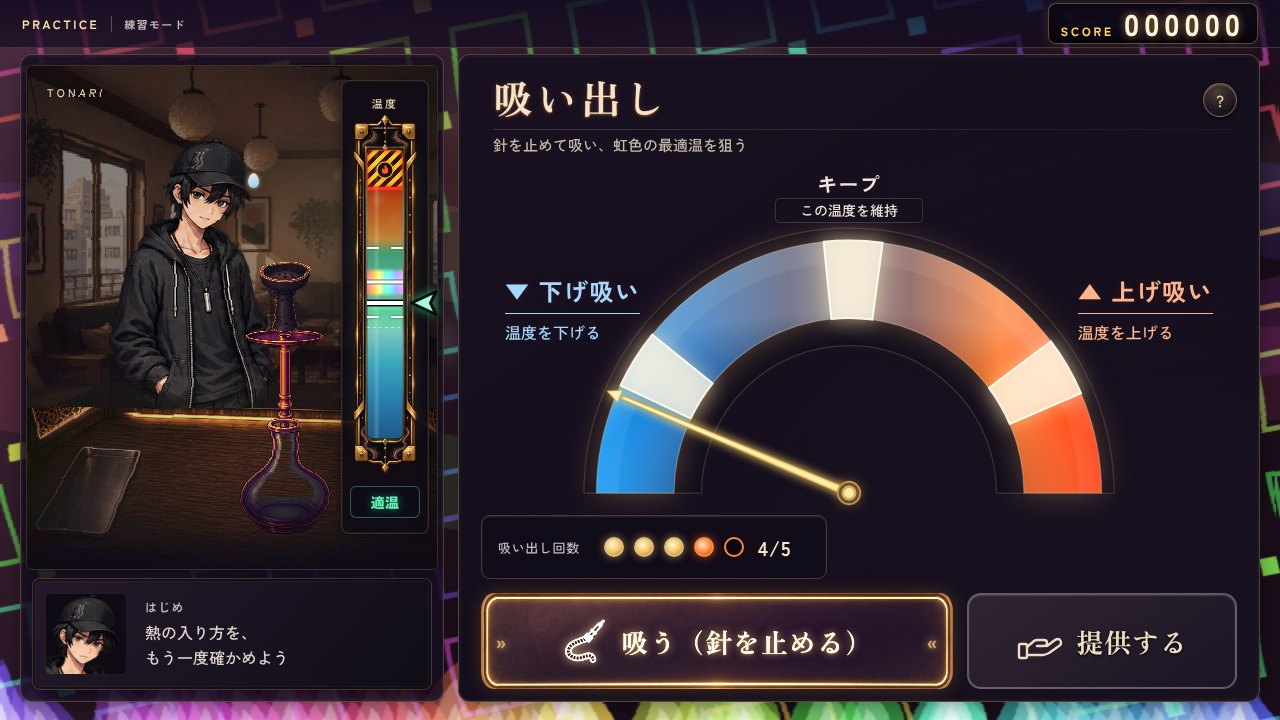
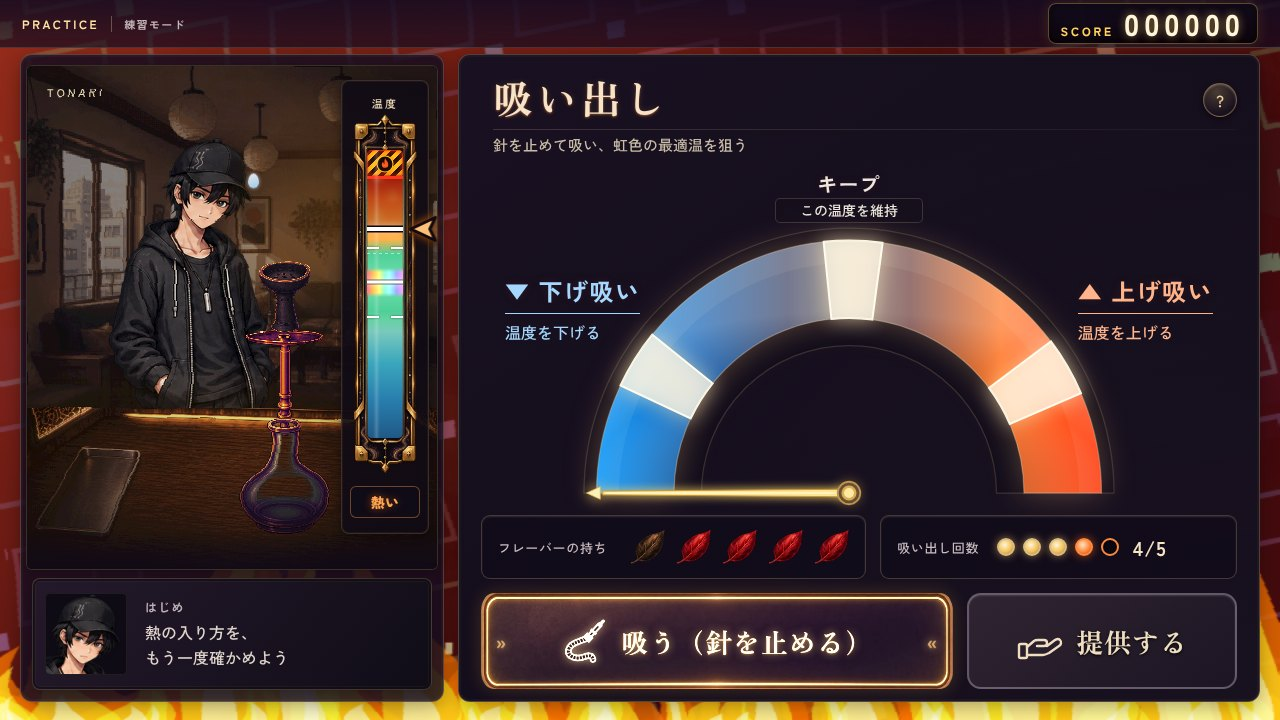
Restore flavor leaves beside the five-pull counter and set the hazard band to 10%
Claude-Session: https://claude.ai/code/session_011TQcD4sr13izWmFDbzAK1w

diff --git a/remake/js/craft/pull.js b/remake/js/craft/pull.js
@@ -2,7 +2,7 @@
 // 左右に振れる針を止めた位置で、上げ吸い／キープ／下げ吸い。中央の細い帯が「ジャスト」。
 // 熱管理（大会のR3・調整）も同じ針のゲーム。「炭を交換しますか？」で個数を選び、交換した炭で温度が戻ってから、
 // 温度が動き続ける中で最低1回吸って整える。3回目の吸い出しからフレーバーが傷む（TH14・TH21・TH22・TH39）。
-// 温度計の一番上で焦げ、熱管理で冷え切ると、その一台はダメになる。吸えるのは5回まで（TH94）。
+// 温度計の一番上で焦げ、熱管理で冷え切り、赤い葉が0枚になると、その一台はダメになる（TH82）。一度に吸えるのは5回まで（TH94）。
 // 吸いすぎ・過熱での吸い出しは、はじめの体力も削って疲れ（針が速く、成功帯が狭い）が付く（TH29）。
 // 人によって狙いが違うので、EXCELLENT・GOOD の判定は出さない。吸うと温度計の横に上下の印だけが出る（TH36）。
 // 左の作業風景に温度計、右に半円ダイヤル。左の下げ吸い=寒色→キープ→右の上げ吸い=暖色。
@@ -12,13 +12,14 @@
 import { el, sleep, clamp, rand } from "../core/util.js";
 import { countdown, shake } from "../core/ui.js";
 import { SE, startBubbling } from "../core/audio.js";
-import { stepPanel, refreshBench, tickerSay, reactAudience, setBenchTemperature, setBenchDraw, failBench, strainBench, scoreStep } from "./session.js";
+import { stepPanel, refreshBench, tickerSay, reactAudience, setBenchTemperature, setBenchDraw, failBench, setBenchLeaf, dockBenchLeaf, strainBench, scoreStep } from "./session.js";
 import { gradeOf, autoSkill, skill, resultCard, keys } from "./common.js";
 import { burnCoals, HEAT_GRADES } from "./heat.js";
 
 import { craftConditions, heatDelta, pullResult, isOptimalTemperature, temperatureAfterSteam, pullFocusFromSteam, isBurnt, isColdOut, DANGER_TEMP, COLD_OUT, IDEAL } from "./conditions.js";
 import { buildThermometer } from "./thermometer.js";
 import { DRAW_MS, animateDraw } from "./pull-draw.js";
+import { ensureFlavorLife, burnFlavorLeaf } from "./flavor-life.js";
 
 export { IDEAL } from "./conditions.js";
 const HOSE_PATH = "M25.5 21.5C18 25 9 26 7.5 33s8 9.5 15 7 9-1 9.5 2.5";
@@ -56,12 +57,14 @@ const dialPoint = (p, r) => {
 const dialSector = (p0, p1, r0 = DIAL.r0, r1 = DIAL.r1) =>
   `M${dialPoint(p0, r1)}A${r1} ${r1} 0 0 1 ${dialPoint(p1, r1)}L${dialPoint(p1, r0)}A${r0} ${r0} 0 0 0 ${dialPoint(p0, r0)}Z`;
 let dials = 0;
-/** TH94: 吸い出し・熱管理とも一度に吸えるのは5回まで。回数は情報欄の5つの点で見せる（赤い葉の持ちは廃止）。 */
+export { LEAF_MAX } from "./flavor-life.js";
+/** TH94・TH95: 吸い出し・熱管理とも一度に吸えるのは5回まで。左の赤い葉の持ちの右に、回数を5つの点で並べる。 */
 export const MAX_PULLS = 5;
 
 const FAIL_TEXT = {
   burnt: { title: "シーシャが焦げてしまった", line: "温度計の一番上まで熱が上がり、葉が焦げた", ticker: "パッキー「ば、爆発ーッ！？ シーシャが焦げてしまったーッ！」" },
   cold: { title: "シーシャが冷え切ってしまった", line: "炭の熱が尽きて、煙が立たなくなった", ticker: "パッキー「あ、あれ〜？ 煙が……止まってしまったーッ！」" },
+  leaf: { title: "フレーバーがダメになってしまった", line: "吸いすぎて、葉の香りが抜け切った", ticker: "パッキー「吸いすぎだーッ！ フレーバーが限界を迎えたーッ！」" },
 };
 
 /** 炭・熱・蒸らし・穴・詰めから、吸い出し開始時の温度を決める */
@@ -96,6 +99,8 @@ async function pullGame(cs, mode) {
   let coreTemp = mode.start(cs);
   let T = coreTemp;
   const conditions = craftConditions(cs);
+  ensureFlavorLife(cs);
+  setBenchLeaf(cs);
   let pulls = 0, justs = 0, failed = null, coals = null;
   // 熱管理だけ: 炭が燃え進んで熱が落ちる速さと、洞察で小さくなる揺らぎ
   const clarity = mode.drift ? skill.clarity(cs) : 1;
@@ -160,14 +165,17 @@ async function pullGame(cs, mode) {
   const pips = Array.from({ length: MAX_PULLS }, (_, i) => el(`i.pull-pip${i >= mode.safe ? ".over" : ""}`, { "aria-hidden": "true" }));
   const pullCount = el("b.pull-count-num");
   const counter = el("span.pull-count", { role: "img", dataset: { test: "pull-count" } }, [el("span.pull-pips", pips), pullCount]);
+  const lifeLeaves = el("span.pull-life-leaves");
   const summary = el("div.pull-summary", [
-    el("div.pull-life", [el("span.pull-life-label", { text: mode.drift ? "吸った回数" : "吸い出し回数" }), counter, tags, drawStatus]),
+    el("div.pull-life", [el("span.pull-life-label", { text: "フレーバーの持ち" }), lifeLeaves, tags, drawStatus]),
+    el("div.pull-life.pull-count-box", [el("span.pull-life-label", { text: mode.drift ? "吸った回数" : "吸い出し回数" }), counter]),
   ]);
   const play = el("div.pull-play", [dialRow, summary, el("div.pull-btns", [pullBtn, serveBtn])]);
   play.setAttribute("aria-label", "左の下げ吸いで温度を下げ、中央でキープ、右の上げ吸いで温度を上げる");
   const main = el("div.pull-main", [play]);
   panel.append(el(`div.pull${mode.drift ? ".pull-care" : ""}`, [thermometer.root, main]));
   thermometer.root.append(readout);
+  dockBenchLeaf(cs, lifeLeaves);
 
   const render = () => {
     thermometer.update(T);
@@ -233,8 +241,13 @@ async function pullGame(cs, mode) {
     const delta = z.id === "keep" ? (at - .5) * .18 : (isJust ? z.justDelta : z.delta) + .015;
     return { z, isJust, delta };
   };
-  // 吸いすぎは文字を出さず、ダメージの音と揺れで伝える（TH27・TH28）。採点の減点は pullResult。
-  const overdraw = () => { SE.hit(); shake(undefined, 380); };
+  // 吸いすぎでフレーバーが傷む。文字は出さず、ダメージの音と揺れ、葉の傷みで伝える（TH27・TH28）。
+  const damageLeaf = () => {
+    burnFlavorLeaf(cs.leaf);
+    setBenchLeaf(cs, true);
+    SE.hit(); shake(undefined, 380);
+    if (cs.leaf.hp <= 0) fail("leaf");
+  };
   // 吸いすぎ・過熱の吸い出しで、はじめが疲れる。針と成功帯にすぐ反映する（TH29）。
   const strain = () => {
     if (!strainBench(cs)) return;
@@ -278,7 +291,7 @@ async function pullGame(cs, mode) {
       reactAudience(cs, overdone || Math.abs(T - CENTER) > Math.abs(before - CENTER) ? "bad" : "good");
       thermometer.pop(z.id === "keep" ? z.mark : isJust ? z.mark.repeat(2) : z.mark, z.id);
       if (overdone || T >= HARSH_TEMP) strain();
-      if (overdone) overdraw();
+      if (overdone) { damageLeaf(); if (failed) return; }
     } finally {
       stopBubbles();
       setBenchDraw(cs, null);

diff --git a/remake/js/craft/session.js b/remake/js/craft/session.js
@@ -23,6 +23,8 @@ import { buildThermalAtmosphere } from "./thermal.js";
 import { buildPanelSmoke } from "./smoke-art.js";
 import { temperatureAfterSteam } from "./conditions.js";
 import { screenBlast } from "./blast.js";
+import { artImg } from "./art.js";
+import { LEAF_MAX, flavorLeafStages } from "./flavor-life.js";
 
 /**
  * テスト用フック。auto を "good" / "bad" にすると、各ミニゲームが操作なしで
@@ -91,6 +93,8 @@ export function openBench(cs, { steps = [] } = {}) {
   const guide = buildGuide();
   const panel = el("div.bench-panel");
   // TH62: 顔のバッジは廃止。疲れは作業中のはじめの表情と汗で見せる。
+  const leaf = buildLeafIcon();
+  worker.footer.append(leaf.root);
   // アーケードのような総合スコア（TH42）。工程の結果が出るたびに数字が回って増える。
   const score = buildScoreBoard(cs);
   const root = el("div.bench", { dataset: { mode: cs.mode } }, [
@@ -106,7 +110,7 @@ export function openBench(cs, { steps = [] } = {}) {
   const thermal = buildThermalAtmosphere(root, worker);
   bg();
   showScreen("bench", root);
-  bench = { cs, root, worker, audience, panel, title, hint, guide, progress, progressCount, thermal, score };
+  bench = { cs, root, worker, audience, panel, title, hint, guide, progress, progressCount, thermal, leaf, score };
   renderFatigue();
   return bench;
 }
@@ -130,6 +134,8 @@ export function stepPanel(id, titleText, hintText = "", { brief = STEP_BRIEFS[id
     } else s.removeAttribute("aria-current");
   });
   b.audience?.setStep(hintText, id);
+  // 吸い出しの情報欄へ移した葉を、工程を消す前に作業風景へ戻す。
+  b.worker.footer.append(b.leaf.root);
   b.panel.replaceChildren();
   b.panel.dataset.step = id;
   b.root.dataset.step = id;
@@ -139,6 +145,8 @@ export function stepPanel(id, titleText, hintText = "", { brief = STEP_BRIEFS[id
   renderFatigue();
   b.worker.caption.textContent = WORKER_STEPS[id] || titleText;
   b.thermal.setStep(id);
+  b.leaf.root.hidden = !["pull", "care", "trial"].includes(id);
+  b.leaf.render(b.cs.leaf);
   // 蒸らしのやり直しでも前回の温度を残さず、炭を置いた直後の温度から始める。
   if (id === "steam") b.thermal.update(temperatureAfterSteam(b.cs, 0));
   if (["pull", "care", "trial"].includes(id)) b.thermal.update(b.cs.care?.temp ?? b.cs.pull?.temp ?? b.cs.steam?.temp ?? 0);
@@ -156,6 +164,37 @@ export function setBenchDraw(cs, kind, duration = 0) {
 export function pauseBenchTemperature(cs, paused) {
   if (bench?.cs === cs) bench.thermal.pause(paused);
 }
+/**
+ * 赤い葉5枚のうち使用中の1枚だけが茶→黒→消える。次の赤い葉は変色しない（TH77〜82）。
+ */
+function buildLeafIcon() {
+  const leaves = Array.from({ length: LEAF_MAX }, (_, i) => el("span.flavor-leaf", { "aria-hidden": "true", dataset: { slot: i, stage: "red" } }, [
+    artImg("ui_mockup_flavor_leaf.png", 34, "leaf-skin", { h: 34 }),
+  ]));
+  const root = el("span.leaf-icon", { hidden: true, role: "img", dataset: { test: "leaf-icon", hp: String(LEAF_MAX) } }, leaves);
+  return { root, render(leaf, { hit = false } = {}) {
+    const hp = leaf?.hp ?? LEAF_MAX, burn = leaf?.burn ?? 0;
+    root.dataset.hp = String(hp);
+    root.dataset.burn = String(burn);
+    flavorLeafStages(leaf).forEach((stage, i) => { leaves[i].dataset.stage = stage; });
+    const description = `フレーバー：赤い葉が残り${hp}/${LEAF_MAX}枚${burn ? `、使用中の葉は${burn === 1 ? "茶色" : "黒い焦げ"}` : ""}`;
+    root.setAttribute("aria-label", description);
+    root.title = description;
+    if (hit) { root.classList.remove("hit"); void root.offsetWidth; root.classList.add("hit"); }
+  } };
+}
+
+/** フレーバーが傷んだら葉を更新する。音と揺れは呼び出し側で鳴らす。 */
+export function setBenchLeaf(cs, hit = false) {
+  if (bench?.cs === cs) bench.leaf.render(cs.leaf, { hit });
+}
+/** 吸い出し・熱管理では、同じ葉の状態をモックアップの情報欄へ置く。 */
+export function dockBenchLeaf(cs, host) {
+  if (bench?.cs !== cs) return;
+  const root = bench.leaf.root;
+  host.prepend(root);
+}
+
 /**
  * はじめの疲れ（TH29・TH43）。札や文字は出さず、作業中のはじめの表情と汗で見せる。
  * 0=元気（真剣な顔）、1=少し疲れ（汗がにじむ）、2=ばてている（沈んだ顔・汗と荒い息）。体調の黄・赤と、吸いすぎ・熱すぎの疲れの重い方。
@@ -240,7 +279,7 @@ function bowlOrigin() {
 
 /**
  * その一台がダメになった演出（TH06・TH17・TH19・TH20）。burnt=画面全体の大爆発と焦げた背景、
- * cold=煙が消えて冷え切った色。終わると結果へ進む。
+ * cold=煙が消えて冷え切った色、leaf=フレーバーが抜けてくすんだ色。終わると結果へ進む。
  */
 export async function failBench(cs, kind) {
   if (bench?.cs !== cs || !bench.root.isConnected) return;

diff --git a/remake/css/craft.css b/remake/css/craft.css
@@ -822,6 +822,16 @@
 .thermo.danger .thermo-pointer { background: linear-gradient(90deg, #fff, #ff5a3a); filter: drop-shadow(0 0 7px #ff3a00) drop-shadow(0 0 1px #000); }
 .thermo.optimal .thermo-pointer { background: linear-gradient(90deg, #fff, #ffe066); }
 @keyframes pointer-pulse { from { transform: translateX(0); } to { transform: translateX(4px); } }
+/* TH77〜82: 5枚のうち1枚ずつ赤→茶→黒→消える。残りの赤い葉は変色させない。 */
+.leaf-icon { display: inline-flex; align-items: center; gap: 12px; flex: none; }
+.leaf-icon[hidden] { display: none; }
+.flavor-leaf { display: block; width: 34px; height: 34px; flex: none; transition: opacity .45s, transform .45s var(--ease-out); }
+.leaf-skin { transition: filter .5s var(--ease-out); image-rendering: auto; }
+.flavor-leaf[data-stage="brown"] > .leaf-skin { filter: grayscale(1) sepia(1) saturate(2.5) hue-rotate(-20deg) brightness(.85); }
+.flavor-leaf:is([data-stage="black"], [data-stage="gone"]) > .leaf-skin { filter: grayscale(1) brightness(.22); }
+.flavor-leaf[data-stage="gone"] { opacity: 0; transform: scale(.55); }
+.leaf-icon.hit .flavor-leaf:is([data-stage="brown"], [data-stage="black"]) { animation: leaf-shiver .5s ease-out; }
+@keyframes leaf-shiver { 0%, 100% { transform: none; } 20% { transform: translateX(-4px) rotate(-12deg); } 45% { transform: translateX(3px) rotate(9deg); } 70% { transform: translateX(-2px) rotate(-4deg); } }
 /* TH94: 吸った回数の5つの点。無傷の回数を超える点は橙の枠、吸った点は灯る。 */
 .pull-count { display: inline-flex; align-items: center; gap: 14px; flex: none; }
 .pull-pips { display: flex; gap: 10px; }
@@ -831,7 +841,7 @@
 .pull-pip.over.on { background: radial-gradient(circle at 40% 35%, #ffe2c2, #ff8a3d 55%, #c2410c); box-shadow: 0 0 10px #ff6a1aaa; }
 .pull-count-num { min-width: 2.6em; font-family: "Craft Mincho", var(--font); font-size: 20px; letter-spacing: .06em; color: #f4e4c4; font-variant-numeric: tabular-nums; }
 .pull-count[data-pulls="5"] .pull-count-num { color: #ff9a52; }
-@media (prefers-reduced-motion: reduce) { .thermo-pointer { animation: none; } .pull-pip { transition: none; } }
+@media (prefers-reduced-motion: reduce) { .thermo-pointer, .leaf-icon.hit .flavor-leaf { animation: none; } .flavor-leaf, .leaf-skin, .pull-pip { transition: none; } }
 
 /* TH47〜51: モックアップの広い半円、中心から弧に届く針。左=下げ、右=上げ。 */
 .pull-dial { position: relative; width: min(100%, 590px); margin: 0 auto; aspect-ratio: 480 / 270; }
@@ -1020,6 +1030,7 @@
 .pull-summary { display: block; justify-self: start; width: max-content; max-width: 100%; padding: 0; border: 0; background: none; }
 .pull-life { position: relative; min-width: 0; min-height: 0; height: 100%; display: flex; align-items: center; gap: 24px; padding: 8px 16px; border: 1px solid #a18a665c; border-radius: 9px; background: #100b18bb; box-shadow: inset 0 1px 2px #fff2; }
 .pull-life-label { font-size: 13px; color: #c8bcc0; white-space: nowrap; letter-spacing: .05em; }
+.pull-life-leaves { display: flex; align-items: center; flex: none; }
 .pull-tags:empty { display: none; }
 .pull-serve-icon svg { display: block; width: 100%; height: 100%; }
 /* 状態の読み上げだけ残す。注意書きや別ウインドウは表示しない（TH71）。 */
@@ -1114,3 +1125,9 @@
   .panel-smoke-wisp::before { animation: none; opacity: .5; }
   .panel-smoke-wisp::after { display: none; }
 }
+/* TH95: 情報欄は左にフレーバーの持ち、右に吸い出し回数を並べる。 */
+.pull-summary { display: flex; gap: 14px; width: auto; justify-self: stretch; }
+.pull-summary > .pull-life { flex: none; }
+.pull-summary > .pull-count-box { flex: 1; min-width: 0; gap: 18px; }
+.pull-count-box .pull-pips { gap: 8px; }
+.pull-count-box .pull-pip { width: 18px; height: 18px; }

diff --git a/remake/js/craft/thermal.js b/remake/js/craft/thermal.js
@@ -20,9 +20,10 @@ const BANDS = [
 const RUINED = {
   burnt: { id: "burnt", label: "シーシャが焦げてしまった", ink: "#ff7a2a", glow: ["#ff3c00", .3], haze: 0, smoke: ["#1c1210", .92] },
   cold: { id: "cold-out", label: "シーシャが冷え切ってしまった", ink: "#cfe6ff", glow: ["#9cc8ff", .16], haze: 0, smoke: ["#ffffff", 0] },
+  leaf: { id: "leaf-out", label: "フレーバーがダメになってしまった", ink: "#c9b48a", glow: ["#8a7350", .14], haze: 0, smoke: ["#9a8f80", .3] },
 };
 const BURNT = RUINED.burnt;
-const RUINED_BG = { burnt: ["#3a1d10", "#0b0503"], cold: ["#5d7487", "#18232e"] };
+const RUINED_BG = { burnt: ["#3a1d10", "#0b0503"], cold: ["#5d7487", "#18232e"], leaf: ["#4a3f31", "#161109"] };
 export function thermalBand(temp) {
   const t = clamp(Number.isFinite(temp) ? temp : 0, 0, 1);
   return BANDS.find(b => t < b.until || (b.id === "ready" && t === IDEAL[1]));
@@ -379,7 +380,7 @@ export function buildThermalAtmosphere(host, worker) {
       paused = value; host.dataset.thermalPaused = String(value); last = performance.now();
       value ? hazeSvg?.pauseAnimations?.() : hazeSvg?.unpauseAnimations?.();
     },
-    /** その一台がダメになった背景へ切り替える。焦げたら爆発のあと煙と残り火、冷え切りはくすんだ色。工程が変わるまで続く。 */
+    /** その一台がダメになった背景へ切り替える。焦げたら爆発のあと煙と残り火、冷え切り・フレーバー切れはくすんだ色。工程が変わるまで続く。 */
     fail(kind) {
       if (!active || !RUINED[kind]) return;
       paused = false; ruined = kind;

diff --git a/remake/js/craft/conditions.js b/remake/js/craft/conditions.js
@@ -11,8 +11,8 @@ export const isOptimalTemperature = (temp) => temp >= OPTIMAL[0] && temp <= OPTI
 /** 温度計の一番上に届くと爆発して焦げる（2026-10-09 オーナー指定 TH06）。蒸らしは0.88で頭打ちのため届かない。 */
 export const BURST_TEMP = 1;
 export const isBurnt = (temp) => temp >= BURST_TEMP - 1e-6;
-/** ここから上は「焦げる寸前」。温度計に危険帯として描き、背景も灼熱になる。TH92で0.94→0.86へ広げた（爆発は1のまま）。 */
-export const DANGER_TEMP = 0.86;
+/** ここから上は「焦げる寸前」。温度計に危険帯として描き、背景も灼熱になる。TH92・TH96で0.94→0.90へ広げた（温度計の約10%。爆発は1のまま、蒸らしの頭打ち0.88より上）。 */
+export const DANGER_TEMP = 0.90;
 /** 提供後（熱管理）にここまで冷えると、シーシャがダメになる（TH19）。 */
 export const COLD_OUT = 0.06;
 export const isColdOut = (temp) => temp <= COLD_OUT + 1e-6;

diff --git a/remake/js/craft/flavor-life.js b/remake/js/craft/flavor-life.js
@@ -1,0 +1,27 @@
+// TH77〜82: 赤い葉5枚。使用中の1枚だけが赤→茶→黒→消えると進む。
+// hp は次に使える赤い葉の残数。最後の赤が茶色になったら、その一台は失敗。
+export const LEAF_MAX = 5;
+
+export function ensureFlavorLife(cs) {
+  cs.leaf ??= { hp: LEAF_MAX, max: LEAF_MAX, burn: 0 };
+  cs.leaf.max = LEAF_MAX;
+  cs.leaf.burn ??= 0;
+  return cs.leaf;
+}
+
+export function burnFlavorLeaf(leaf) {
+  if (leaf.hp <= 0) return;
+  if (!leaf.burn) {
+    leaf.hp--;
+    leaf.burn = 1;
+  } else {
+    leaf.burn = (leaf.burn + 1) % 3;
+  }
+}
+
+export function flavorLeafStages(leaf) {
+  const hp = leaf?.hp ?? LEAF_MAX, burn = leaf?.burn ?? 0;
+  const gone = LEAF_MAX - hp - (burn ? 1 : 0);
+  return Array.from({ length: LEAF_MAX }, (_, i) =>
+    i < gone ? "gone" : i === gone && burn ? (burn === 1 ? "brown" : "black") : "red");
+}

diff --git a/remake/README.md b/remake/README.md
@@ -25,9 +25,9 @@
 - 温度計は適温（ミント）の中央に幅37.5%の虹色の最適温（温度0.51〜0.57）を表示。虹の端は周囲へなじませ、中央には白線を残す。見た目と最適温の判定は同じ範囲を使用。弾幕は被弾数、吸い出しは提供時の最適温への近さで評価する。吸い出しはキープ中央で維持、少し左で微減、右で微増。針のジャスト自体で点数は増やさない。最低2回・3回までは無傷、4回目以降の吸いすぎは葉が痩せる
 - 制作画面は提示モックアップに合わせ、左に作業風景・独立した温度計のウインドウ・顔を大きく収めたセリフ欄、右に真円の半円ゲージ・光る葉の持ち・高さ96pxの下段ボタンを配置。顔の体調アイコンは廃止し、疲れは表情と汗で示す。吸うボタンと葉には透過の生成素材、吸い出し・熱管理の見出しとボタンにはZen Old Minchoのサブセット（SIL OFL）を使用。針は最終指示TH61で中央のワイパー式。説明に吸引の長さ・強さは書かないが、実際は左の下げ吸い3.2秒、右の上げ吸い1.4秒、キープ1.9秒。一口の間は両ボタンを無効にし、左の水泡と合成のぼこぼこ音に合わせて温度をなめらかに動かす。吸い終わってから針を再開し、提供を選べる。今後の吸引動画は `.bench-worker[data-draw]` へ接続する。背景は既存アニメーションを使用（TH47〜66）
 
-2026-10-10 TH94: 下記の赤い葉の持ちは廃止し、情報欄を5つの点の吸い出し回数（最大5回）へ戻した。TH92で焦げる寸前の帯を0.86以上へ広げ、TH93で右ウインドウの煙を過熱以上だけにした。
+2026-10-10 TH94〜96: 情報欄は左に赤い葉の持ち、右に5つの点の吸い出し回数を並べ、吸えるのは最大5回。焦げる寸前の帯は0.90以上（温度計の約10%）。TH93で右ウインドウの煙を過熱以上だけにした。
 
-2026-10-10 TH67〜82（旧）: 葉は写真の色だけを参考にした自然な赤い葉5枚で開始。無傷の回数を超えると1枚ずつ赤→茶色→黒→消えると進み、次の赤を使う。予備の赤は劣化させず、最後の赤が茶色になって赤が0枚になると失敗。残数と途中の段階を熱管理へ引き継ぐ。旧5回上限を撤去し、持ち欄は5枚に合う幅へ縮め、右の回数の点と「吸いすぎると〜」の注意書きを外した。最低・無傷の回数と採点減点・体力消費は従来どおり。「吸う」はホース、「提供する」は差し出す手。下の外側余白18px／ボタン下12px。温度計は64×360px、背後の枠に左右12px・下16pxの余裕を取り、セリフ欄も外枠から内側へ離した。顔は採用済みの顔アイコンと同じ頭部基準で原画の表情差分を切り取り、暗い紫の面・細い金縁・控えめな発光に整えた。
+2026-10-10 TH67〜82: 葉は写真の色だけを参考にした自然な赤い葉5枚で開始。無傷の回数を超えると1枚ずつ赤→茶色→黒→消えると進み、次の赤を使う。予備の赤は劣化させず、最後の赤が茶色になって赤が0枚になると失敗。残数と途中の段階を熱管理へ引き継ぐ。旧5回上限を撤去し、持ち欄は5枚に合う幅へ縮め、右の回数の点と「吸いすぎると〜」の注意書きを外した。最低・無傷の回数と採点減点・体力消費は従来どおり。「吸う」はホース、「提供する」は差し出す手。下の外側余白18px／ボタン下12px。温度計は64×360px、背後の枠に左右12px・下16pxの余裕を取り、セリフ欄も外枠から内側へ離した。顔は採用済みの顔アイコンと同じ頭部基準で原画の表情差分を切り取り、暗い紫の面・細い金縁・控えめな発光に整えた。
 
 [生成素材・表示確認](../asset_sources/craft-ui-20261010/README.md)。動画は読み込まず、今後の作業演出に使う左枠を維持する。
 

diff --git a/asset_sources/craft-ui-20261010/README.md b/asset_sources/craft-ui-20261010/README.md
@@ -44,7 +44,7 @@ python3 remake/tools/build_craft_font.py
 - `pull_draw.mjs` PASS: 実入力で温度補間・針固定・連打・キー長押し・提供制限・泡・音の開始と終了・画面離脱・熱管理・動きを減らす設定・スマホを確認。設定1.4秒／3.2秒の一口を吸い終えてから操作を再開。ページ例外0。ボタンはCSSのURLだけでなく実画像の読み込みまで確認。
 - `thermal_background.mjs` PASS: 既存の温度演出・蒸らしの温度引継ぎ・炭交換と再炭焼き・葉の消耗・体力・焦げ／冷え切り・爆発・スマホを確認。ページ例外0。
 - `craft_focus.mjs` PASS: 人物と名前の既読制限・コメント・実タイマー・蒸らしから吸い出しへの引継ぎ・成功帯と速度・実際の提供温度の評価・デスクトップ／横向きスマホ／縦向きスマホを確認。
-- （TH94で葉の持ちを廃止し、このテストは削除）`flavor_life.mjs` PASS: 赤5枚から、1枚ずつ茶色→黒→消えると進む全13段階の損耗と、最後の赤が茶色になって赤0枚になる条件を確認。予備の赤が同時に劣化しないことも確認。
+- `flavor_life.mjs` PASS: 赤5枚から、1枚ずつ茶色→黒→消えると進む全13段階の損耗と、最後の赤が茶色になって赤0枚になる条件を確認。予備の赤が同時に劣化しないことも確認。
 - TH77〜82の実画面確認: [表示状態の記録](leaf-validation.json)に、赤5枚・最初の茶色と黒・熱管理への途中状態の引継ぎ・黒の消失・次の赤を使い始める段階を保存。各段階で予備の赤はフィルターなし／不透明、消えた葉は透明になることを確認。5枚用の枠・回数の点と注意書きの撤去、自然な赤い葉WebPの読込も確認。ページ例外・HTTP失敗とも0。
 - `--making-only`で両パーツを再生成し、日時とこの2素材の余白メタデータだけが変わることを確認。ほかの画像・音声の目録は変更していない。
 
@@ -65,7 +65,7 @@ CHROME_EXECUTABLE_PATH=/usr/bin/chromium SHOTS=asset_sources/craft-ui-20261010 n
 
 ## 吸い出し回数・危険帯・煙の条件・セリフの改行（TH91〜94）
 
-情報欄は赤い葉をやめ、5つの点の吸い出し回数（最大5回）へ。焦げる寸前の帯を0.86以上に広げ、右ウインドウの煙は過熱以上の時だけ出す。左下のセリフは文節単位で折り、2行に収まる一言は読点で折る。
+情報欄は左に赤い葉の持ち、右に5つの点の吸い出し回数（最大5回、TH95）。焦げる寸前の帯は0.90以上＝温度計の約10%（TH96）。右ウインドウの煙は過熱以上の時だけ出す。左下のセリフは文節単位で折り、2行に収まる一言は読点で折る。
 
-![吸い出し回数の点と広い警戒帯](12-pull-count.jpg)
+![左に持ち・右に吸い出し回数、約10%の警戒帯](12-pull-count.jpg)
 ![過熱時だけ出る煙とセリフの改行](13-overheat-smoke.jpg)

diff --git a/docs/owner_requests.md b/docs/owner_requests.md
@@ -1,3 +1,13 @@
+## 2026-10-10 持ちと回数の並び・警戒帯10%・マージ
+
+| ID | 状態 | オーナー要望 |
+|---|---|---|
+| TH95 | ✅ | 左にフレーバーの持ち、右に吸い出し回数という並びにしたかった。赤い葉5枚の持ち（TH77〜82、葉の焦げと赤0枚の失敗）を戻し、その右に回数の箱を並べる。最大5回は維持。 |
+| TH96 | ✅ | 警戒（焦げる寸前）の帯は温度計の10%ぐらいに。今の帯は少し大きいので、もう少しだけ小さく（0.86〜→0.90〜。蒸らしの頭打ち0.88より上になり、蒸らし中には出ない）。 |
+| TH97 | ✅ | 終わったらPR #264をマージする。 |
+
+`flavor_life.mjs`・`pull_draw.mjs`・`thermal_background.mjs`・`craft_focus.mjs` PASS。デスクトップと横向きスマホで2つの箱の並びを確認。
+
 ## 2026-10-10 吸い出し回数・危険帯・煙の出し方・セリフの改行
 
 | ID | 状態 | オーナー要望 |
@@ -7,7 +17,7 @@
 | TH93 | ✅ 202fec5 | 画面から出る煙は温度がやばくなってきた時だけにし、適温などでは出さない（過熱で薄く、焦げる寸前で濃く速く。見出し横も同じ）。 |
 | TH91 | ✅ 202fec5 | 左下のセリフ欄の改行が変（「見なが／ら」）。吹き出しと同じ文節単位で枠幅に合わせて折り、2行に収まる一言は読点で折る。 |
 
-`pull_draw.mjs`・`thermal_background.mjs`・`craft_focus.mjs` PASS。葉の持ち専用の `flavor-life.js` と `flavor_life.mjs` は削除。生成済みの赤い葉の素材は `assets/` に残している。
+`pull_draw.mjs`・`thermal_background.mjs`・`craft_focus.mjs` PASS。（TH95で葉の持ちと `flavor-life.js`・`flavor_life.mjs` を復元）
 
 ## 2026-10-10 温度計の見やすさ・煙・吸うアイコン（Codexの続き）
 
